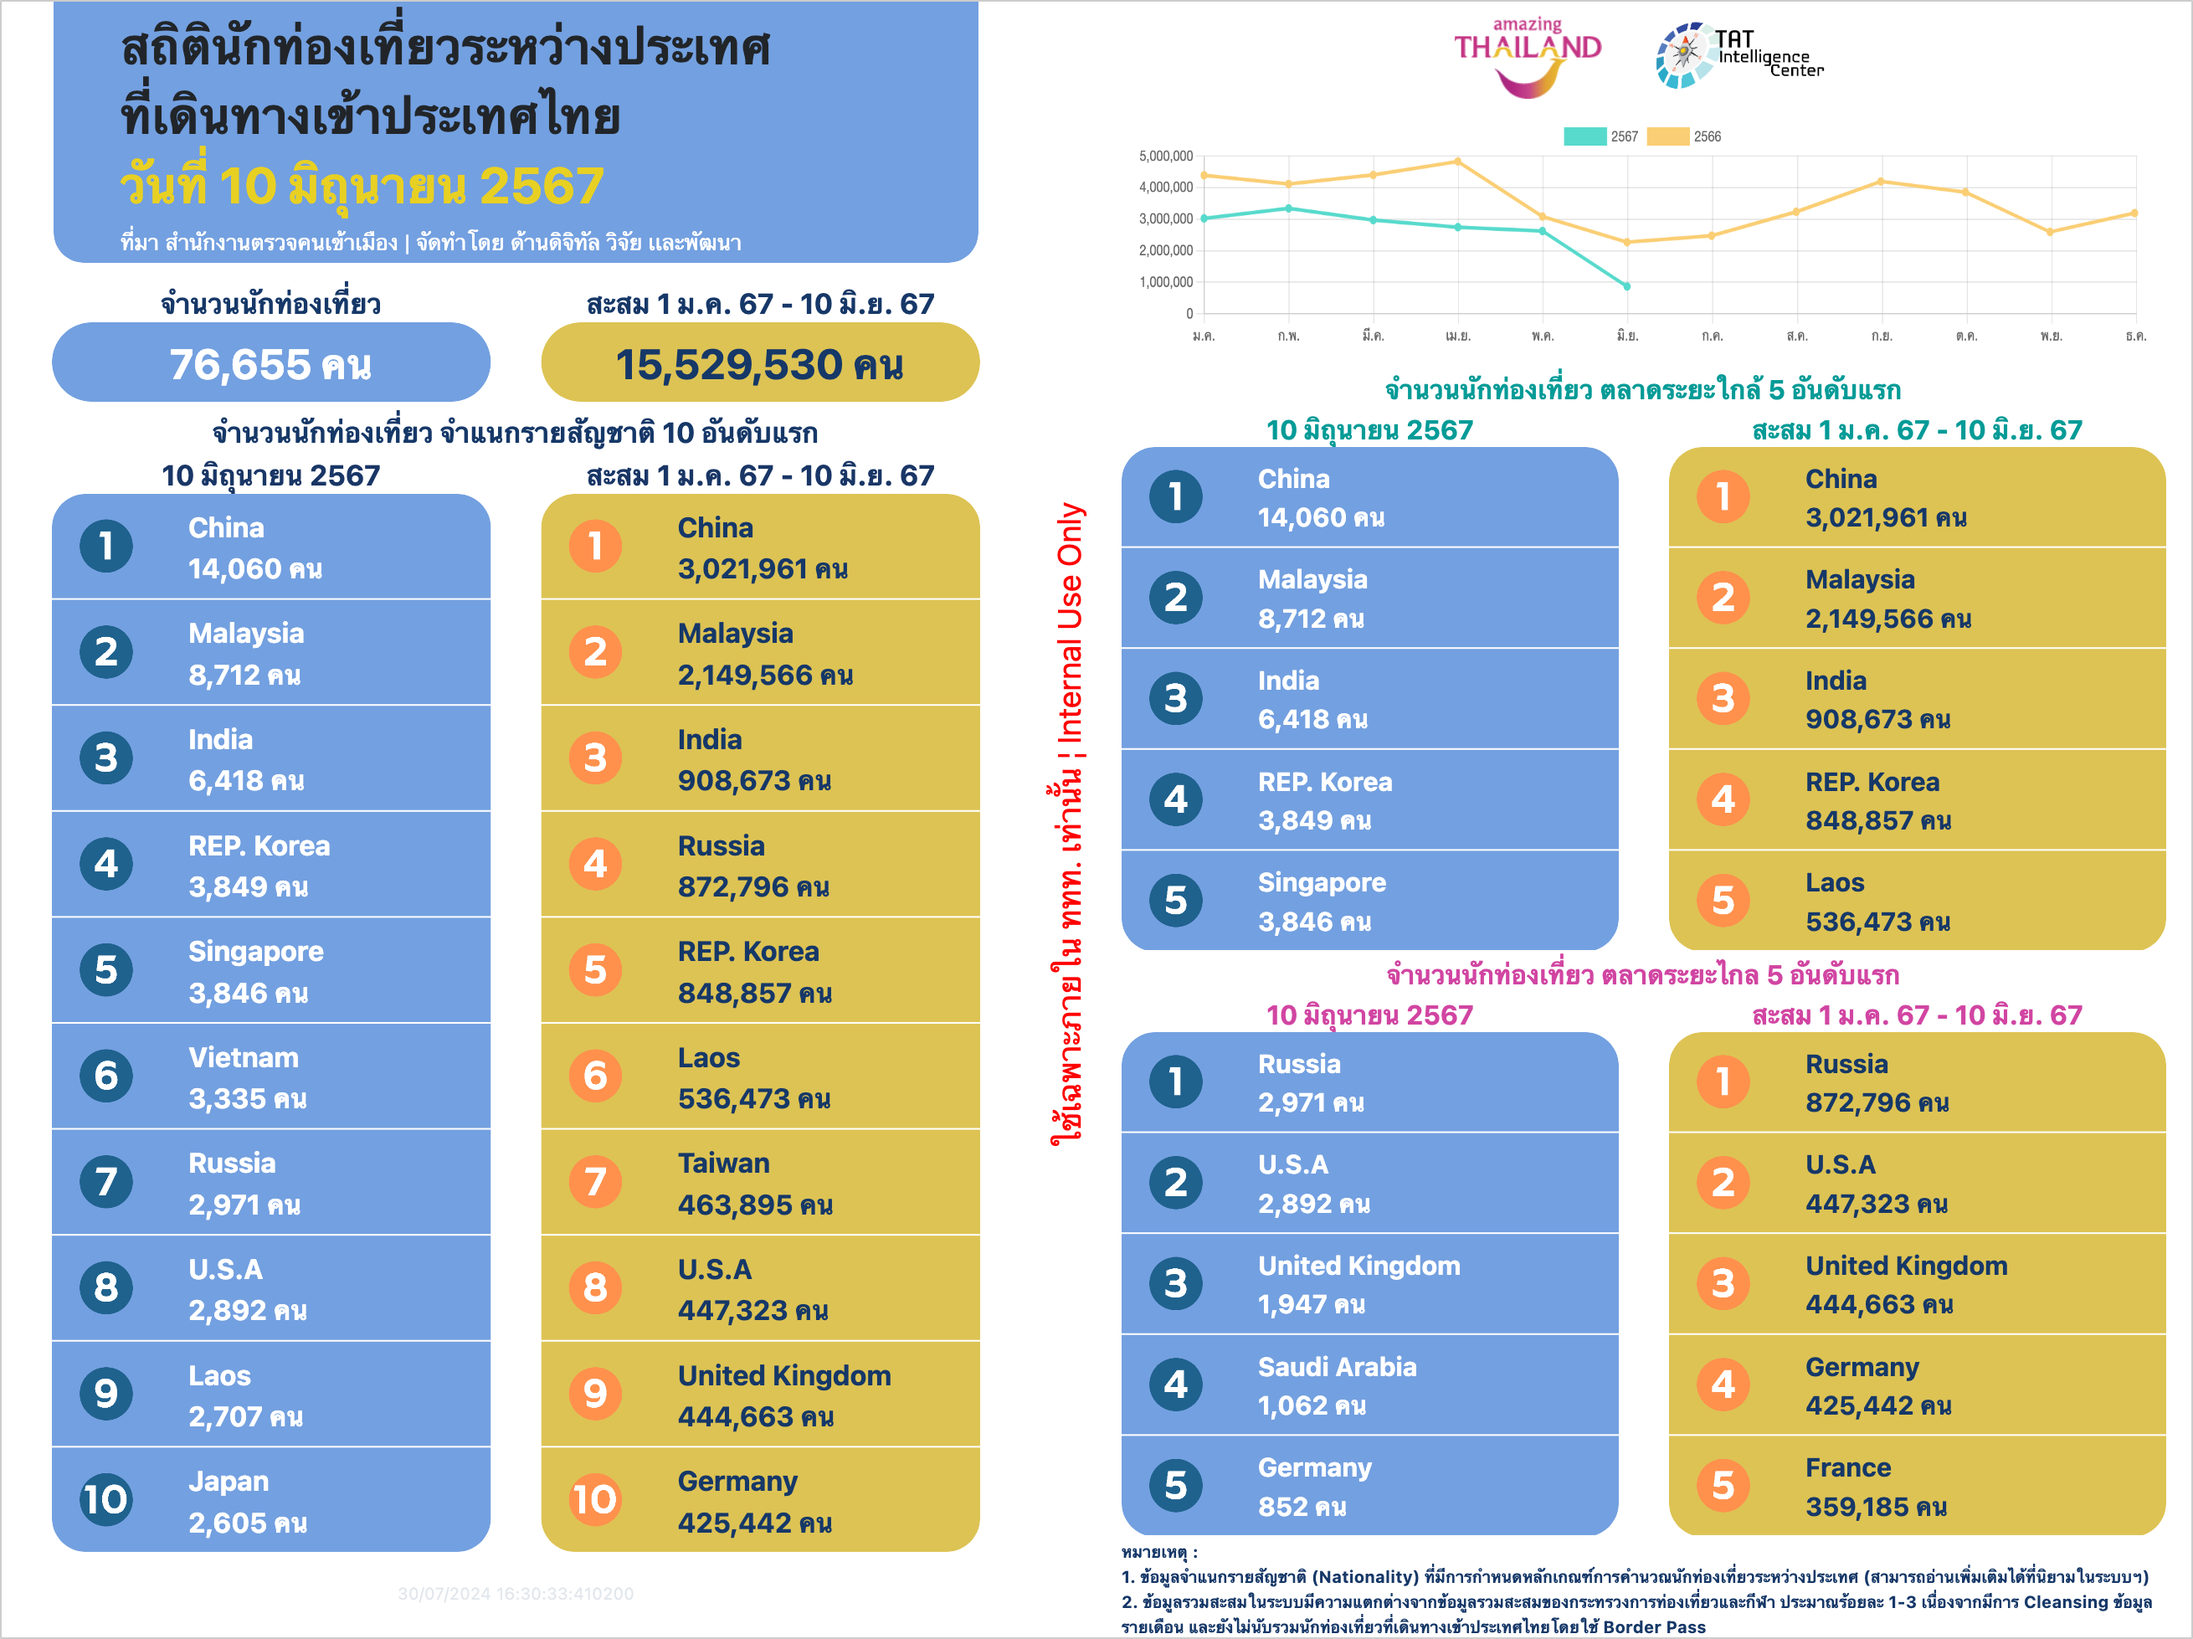
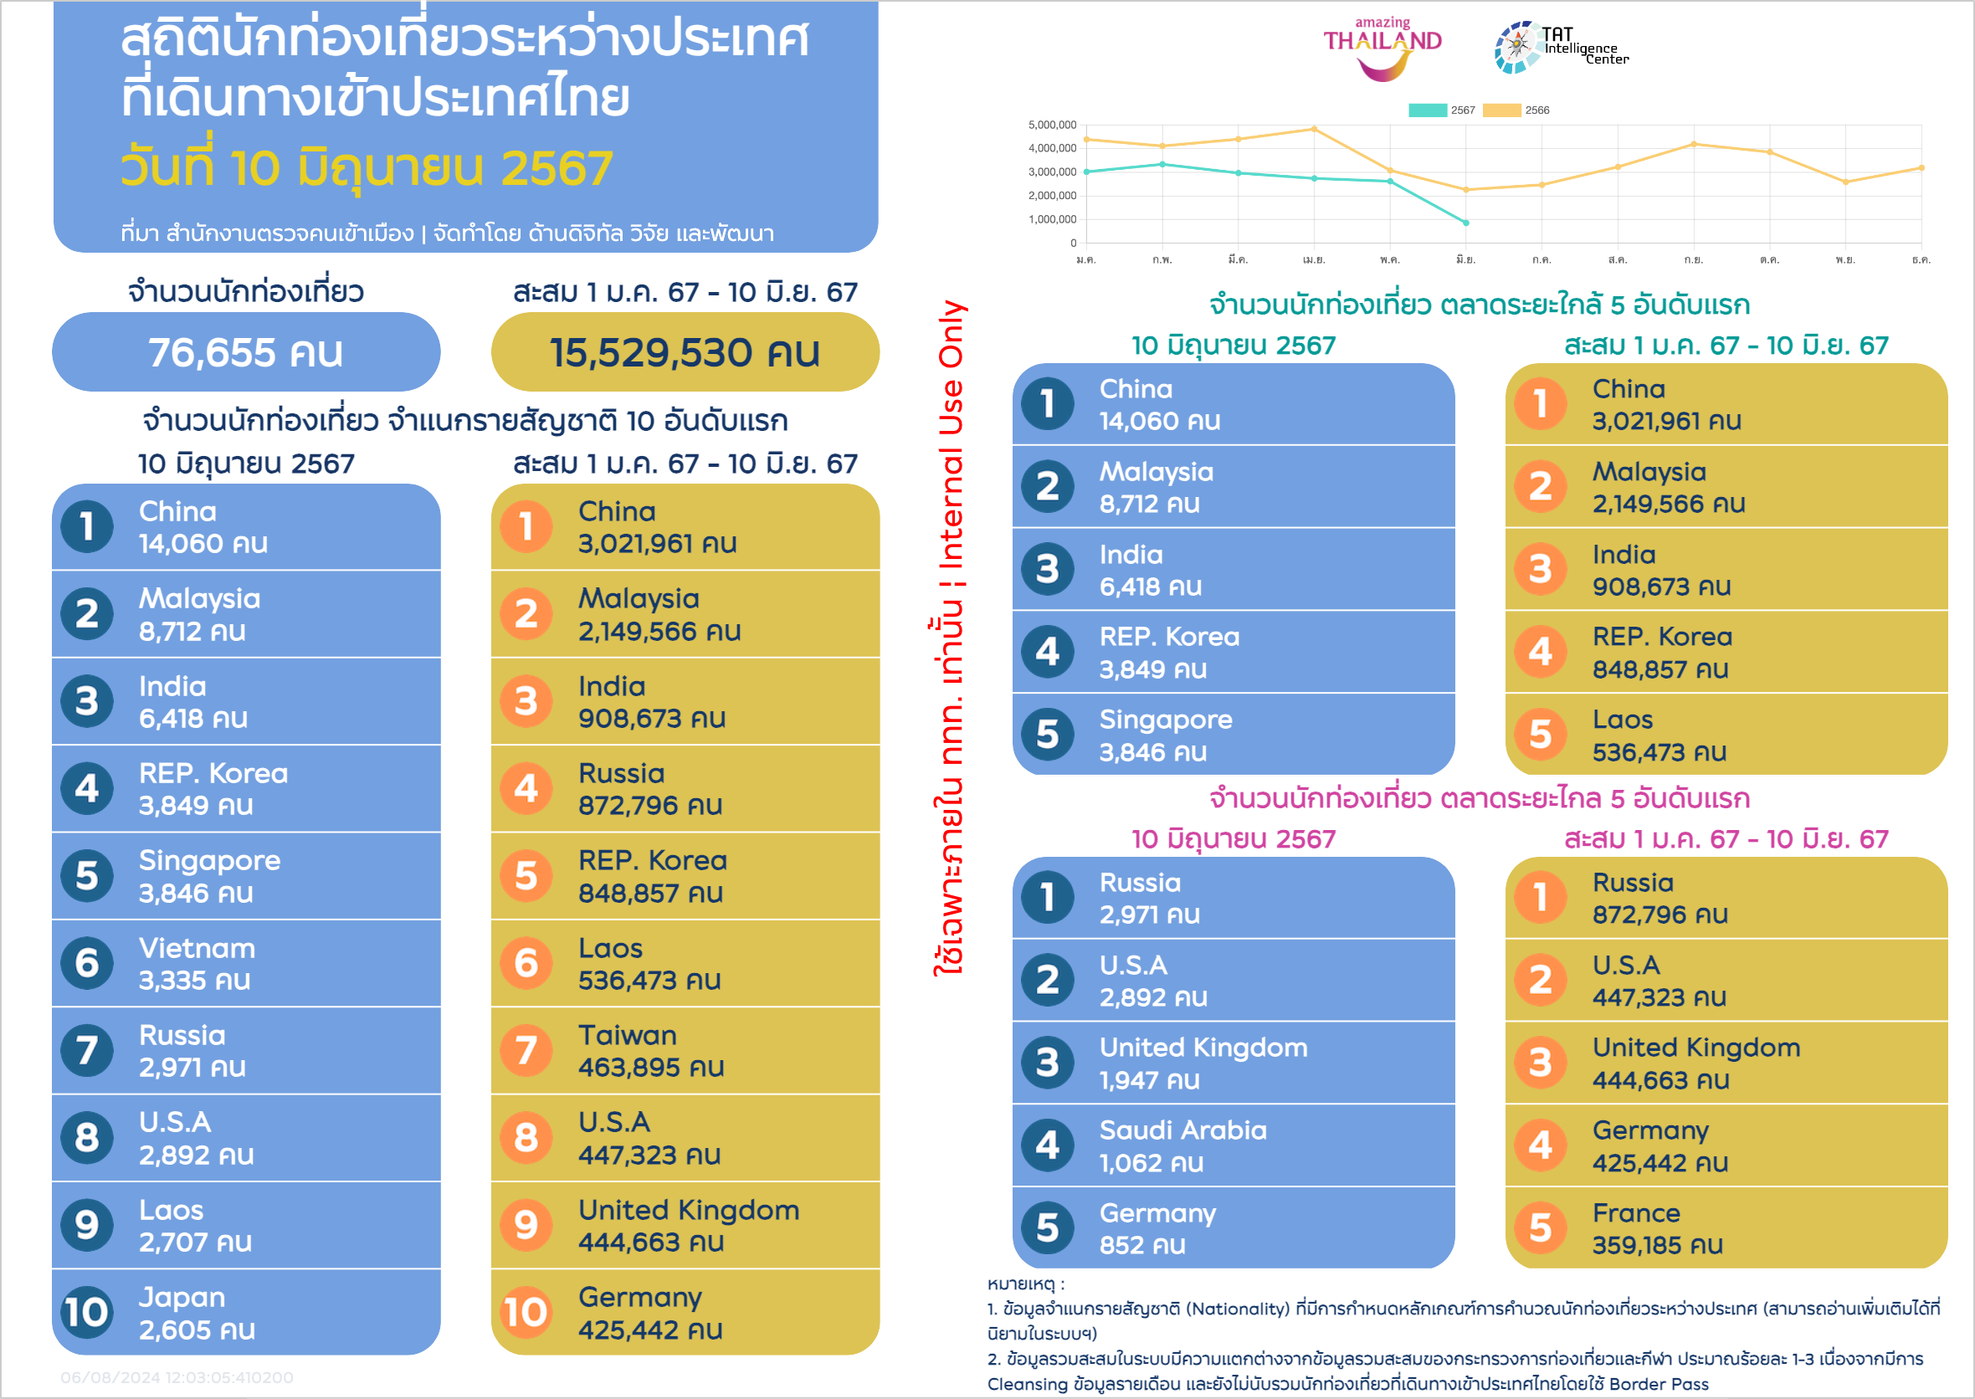
edit dashboard export

diff --git a/modules/Main/Views/export/dashboard_view.php b/modules/Main/Views/export/dashboard_view.php
@@ -237,6 +237,10 @@ body {
 		transform: rotate(90deg);
 	}
 
+	.d-flex {
+		line-height: 1.2em;
+	}
+
 	@media (max-width: 576px) {}
 </style>
 
@@ -284,7 +288,7 @@ if (!empty($SumMarketDate_past['Long'])) {
 // print_r($numberSumNatDay);
 ?>
 
-<body>
+<body style="width:1150px; height: 680px;margin: auto;">
 	<div class="row" style="margin: 0px;">
 		<div class="col-lg-1 col-12 text-center text-md-right">
 			<img class="img-profile " src="<?php echo base_url('public/img/tat.png') ?>" width="100px">
@@ -311,7 +315,7 @@ if (!empty($SumMarketDate_past['Long'])) {
 						<div class="col-lg-11 pr-0">
 							<div class="mx-3 backgroundColorBox1">
 								<div style="padding-left: 40px; padding-right: 40px; padding-top:3px">
-									<p style="margin: 0px; font-weight:bold; line-height: normal; font-size: 30px; color: white;">
+									<p style="margin: 0px; font-weight:bold; line-height: 1.2em; font-size: 30px; color: white;">
 										สถิตินักท่องเที่ยวระหว่างประเทศ
 										<br>
 										ที่เดินทางเข้าประเทศไทย
@@ -387,10 +391,10 @@ if (!empty($SumMarketDate_past['Long'])) {
 												?>
 
 													<div class="d-flex align-items-center" style="border-bottom:<?php echo $c == 10 ? '' : '1px solid #FFFFFF' ?>;">
-														<div class="text-center" style="padding: 6px 16.5px;">
+														<div class="text-center" style="padding: 3px 5px;">
 															<img class="img-profile rounded-circle" src="<?php echo $number_icon ?>" style="height: 32px; ">
 														</div>
-														<div style="text-align: left; padding: 6.4px 16.5px;color: white; font-size: 16.5px;font-weight: bold; width: 90%;">
+														<div style="text-align: left; padding: 6.4px 10px;color: white; font-size: 16.5px;font-weight: bold; width: 90%;">
 															<?php echo $v['COUNTRY_NAME_EN'] ?>
 															<br>
 															<?php echo number_format($v['NUM']); ?> คน
@@ -432,10 +436,10 @@ if (!empty($SumMarketDate_past['Long'])) {
 												?>
 
 													<div class="d-flex align-items-center" style="border-bottom:<?php echo $c == 10 ? '' : '1px solid #FFFFFF' ?>;">
-														<div class="text-center" style="padding: 6px 16.5px;">
+														<div class="text-center" style="padding: 3px 5px;">
 															<img class="img-profile rounded-circle" src="<?php echo $number_icon ?>" style="height: 32px; ">
 														</div>
-														<div style="text-align: left; padding: 6.4px 16.5px;color: #163868; font-size: 16.5px;font-weight: bold; width: 90%;">
+														<div style="text-align: left; padding: 6.4px 10px;color: #163868; font-size: 16.5px;font-weight: bold; width: 90%;">
 															<?php echo $v['COUNTRY_NAME_EN'] ?>
 															<br>
 															<?php echo number_format($v['NUM']); ?> คน
@@ -447,13 +451,13 @@ if (!empty($SumMarketDate_past['Long'])) {
 										</div>
 									</div>
 								</div>
-								<div class="col-lg-12 text-center mt-3">
-									<p class="m-0" style="opacity: 0.3;font-size:10px;color: #a1afc2;"><?php echo date('d/m/Y H:i:s:') . $session->get('org_id');; ?></p>
+								<div class="col-lg-12">
+									<p class="m-0" style="opacity: 0.5;font-size:10px;color: #a1afc2;padding: 5px;"><?php echo date('d/m/Y H:i:s:') . $session->get('org_id');; ?></p>
 								</div>
 							</div>
 						</div>
 						<div class="col-lg-1 my-auto text-center p-0">
-							<div class="mt-1" style="position: absolute;left: -160px;top: 0px;width: max-content;height: 20px;font-size:12px;color:#333;transform: rotate(270deg);color: red;font-size: 19px;">
+							<div class="mt-1" style="position: absolute;left: -180px;top: -50px;width: max-content;height: 20px;font-size:12px;color:#333;transform: rotate(270deg);color: red;font-size: 19px;">
 								ใช้เฉพาะภายใน ททท. เท่านั้น ¦ Internal Use Only
 							</div>
 						</div>
@@ -464,11 +468,11 @@ if (!empty($SumMarketDate_past['Long'])) {
 				<div class="col-lg-6">
 					<div class="row">
 						<div class="col-lg-12 text-center mt-2">
-							<img src="<?php echo base_url('public/img/amezingThai.png') ?>" alt="" style=" margin-right: 10px;height: 50px;">
-							<img src="<?php echo base_url('public/img/TATIC-Logo.png') ?>" alt="" style="height:50px ;margin-left: 10px;">
+							<img src="<?php echo base_url('public/img/amezingThai.png') ?>" alt="" style=" margin-right: 10px;height: 40px;">
+							<img src="<?php echo base_url('public/img/TATIC-Logo.png') ?>" alt="" style="height:40px ;margin-left: 10px;">
 						</div>
 						<div class="col-lg-12">
-							<img src="<?php echo base_url('public/uploads/main/' . $to_date . 'chart_daily_year.png') ?>" style="width:100%;height:160px;">
+							<img src="<?php echo base_url('public/uploads/main/' . $to_date . 'chart_daily_year.png') ?>" style="width:100%;height:120px;">
 						</div>
 						<div class="col-lg-12 text-center colorTextLeft" style="font-weight:bold; font-size: 16px; ">
 							จำนวนนักท่องเที่ยว ตลาดระยะใกล้ 5 อันดับแรก
@@ -504,10 +508,10 @@ if (!empty($SumMarketDate_past['Long'])) {
 												$i++;
 										?>
 												<div class="d-flex align-items-center" style="border-bottom:<?php echo $c == 10 ? '' : '1px solid #FFFFFF' ?>;">
-													<div class="text-center" style="padding: 6px 16.5px;">
+													<div class="text-center" style="padding: 3px 5px;">
 														<img class="img-profile rounded-circle" src="<?php echo $number_icon ?>" style="height: 32px; ">
 													</div>
-													<div style="text-align: left; padding: 6.4px 16.5px;color: white; font-size: 15.5px;font-weight: bold; width: 90%;">
+													<div style="text-align: left; padding: 5px 10px;color: white; font-size: 15.5px;font-weight: bold; width: 90%;">
 														<?php echo $v['COUNTRY_NAME_EN'] ?>
 														<br>
 														<?php echo number_format($v['NUM']); ?> คน
@@ -535,10 +539,10 @@ if (!empty($SumMarketDate_past['Long'])) {
 												}
 										?>
 												<div class="d-flex align-items-center" style="border-bottom:<?php echo $c == 10 ? '' : '1px solid #FFFFFF' ?>;">
-													<div class="text-center" style="padding: 6px 16.5px;">
+													<div class="text-center" style="padding: 3px 5px;">
 														<img class="img-profile rounded-circle" src="<?php echo $number_icon ?>" style="height: 32px; ">
 													</div>
-													<div style="text-align: left; padding: 6.4px 16.5px;color: #163868; font-size: 15.5px;font-weight: bold; width: 90%;">
+													<div style="text-align: left; padding: 5px 10px;color: #163868; font-size: 15.5px;font-weight: bold; width: 90%;">
 														<?php echo $v['COUNTRY_NAME_EN'] ?>
 														<br>
 														<?php echo number_format($v['NUM']); ?> คน
@@ -584,10 +588,10 @@ if (!empty($SumMarketDate_past['Long'])) {
 												$i++;
 										?>
 												<div class="d-flex align-items-center" style="border-bottom:<?php echo $c == 10 ? '' : '1px solid #FFFFFF' ?>;">
-													<div class="text-center" style="padding: 6px 16.5px;">
+													<div class="text-center" style="padding: 3px 5px;">
 														<img class="img-profile rounded-circle" src="<?php echo $number_icon ?>" style="height: 32px; ">
 													</div>
-													<div style="text-align: left; padding: 6.4px 16.5px;color: white; font-size: 15.5px;font-weight: bold; width: 90%;">
+													<div style="text-align: left; padding: 5px 10px;color: white; font-size: 15.5px;font-weight: bold; width: 90%;">
 														<?php echo $v['COUNTRY_NAME_EN'] ?>
 														<br>
 														<?php echo number_format($v['NUM']); ?> คน
@@ -615,10 +619,10 @@ if (!empty($SumMarketDate_past['Long'])) {
 												}
 										?>
 												<div class="d-flex align-items-center" style="border-bottom:<?php echo $c == 10 ? '' : '1px solid #FFFFFF' ?>;">
-													<div class="text-center" style="padding: 6px 16.5px;">
+													<div class="text-center" style="padding: 3px 5px;">
 														<img class="img-profile rounded-circle" src="<?php echo $number_icon ?>" style="height: 32px; ">
 													</div>
-													<div style="text-align: left; padding: 6.4px 16.5px;color: #163868; font-size: 15.5px;font-weight: bold; width: 90%;">
+													<div style="text-align: left; padding: 5px 10px;color: #163868; font-size: 15.5px;font-weight: bold; width: 90%;">
 														<?php echo $v['COUNTRY_NAME_EN'] ?>
 														<br>
 														<?php echo number_format($v['NUM']); ?> คน
@@ -631,10 +635,10 @@ if (!empty($SumMarketDate_past['Long'])) {
 								</div>
 							</div>
 						</div>
-						<div class="col-lg-12 " style="font-weight: bold; color: #fff; font-size:10px; color: #163868;">
+						<div class="col-lg-12 " style="font-weight: bold; color: #fff; font-size:10px; color: #163868; padding: 0;">
 							หมายเหตุ : <br>
-							1. ข้อมูลจำแนกรายสัญชาติ (Nationality) ที่มีการกำหนดหลักเกณฑ์การคำนวณนักท่องเที่ยวระหว่างประเทศ (สามารถอ่านเพิ่มเติมได้ที่นิยามในระบบฯ) <br>
-							2. ข้อมูลรวมสะสมในระบบมีความแตกต่างจากข้อมูลรวมสะสมของกระทรวงการท่องเที่ยวและกีฬา ประมาณร้อยละ 1-3 เนื่องจากมีการ Cleansing ข้อมูลรายเดือน และยังไม่นับรวมนักท่องเที่ยวที่เดินทางเข้าประเทศไทยโดยใช้ Border Pass
+							1. ข้อมูลจำแนกรายสัญชาติ (Nationality) ที่มีการกำหนดหลักเกณฑ์การคำนวณนักท่องเที่ยวระหว่างประเทศ <br>(สามารถอ่านเพิ่มเติมได้ที่นิยามในระบบฯ) <br>
+							2. ข้อมูลรวมสะสมในระบบมีความแตกต่างจากข้อมูลรวมสะสมของกระทรวงการท่องเที่ยวและกีฬา ประมาณร้อยละ 1-3 <br>เนื่องจากมีการ Cleansing ข้อมูลรายเดือน และยังไม่นับรวมนักท่องเที่ยวที่เดินทางเข้าประเทศไทยโดยใช้ Border Pass
 						</div>
 					</div>
 				</div>

diff --git a/modules/Report/Views/departure.php b/modules/Report/Views/departure.php
@@ -36,10 +36,10 @@
 </style>
 
 <div class="row">
-	<div class="col-md-5 text-center text-md-left" style="font-size: 1.4em;">
+	<div class="col-md-3 text-center text-md-left" style="font-size: 1.2em;">
 		สถิติคนไทยเดินทางออกรายวัน
 	</div>
-	<div class="col-md-1 text-center text-md-right" style="font-size: 1.4em;">
+	<div class="col-md-1 text-center text-md-right" style="font-size: 1.2em;">
 		ปี
 	</div>
 	<div class="col-md-2 text-center">
@@ -49,7 +49,17 @@
 			<?php } ?>
 		</select>
 	</div>
-	<div class="col-md-4 col-12 py-2" style="text-align: right;">
+	<div class="col-md-1 text-center text-md-right" style="font-size: 1.2em;">
+		ด่าน
+	</div>
+	<div class="col-md-2 text-center">
+		<select class="form-control" id="select_port_type" onchange="ChangeDate()">
+			<option value="">ทั้งหมด</option>
+			<option value="ด่านบก" <?php if($port_type=='ด่านบก'){ echo 'selected="selected"';} ?> >ด่านบก</option>
+			<option value="ด่านอากาศ" <?php if($port_type=='ด่านอากาศ'){ echo 'selected="selected"';} ?> >ด่านอากาศ</option>
+		</select>
+	</div>
+	<div class="col-md-3 col-12 py-2" style="text-align: right;">
 		<a target="_blank" onclick="export_report('excel')" class="btn btn-success" style="width : 70px">
 			<i class="fa-solid fa-file-excel"></i> Excel
 		</a>
@@ -57,10 +67,6 @@
 			<i class="fa-solid fa-file-pdf"></i> PDF
 		</a>
 	</div>
-	<div class="col-md-12 text-center py-2" >
-		
-	</div>
-
 </div>
 
 <div class="row">
@@ -165,12 +171,13 @@ function isWeekend($date) {
 	
 	function ChangeDate() {
 		var year = $('#select_year').val();
-		window.location.href = base_url + '/report/departure?year=' + year ;
+		var port_type = $('#select_port_type').val();
+		window.location.href = base_url + '/report/departure?year=' + year+'&port_type='+port_type ;
 	}
 
 	function export_report(type) {
 		var year = $('#select_year').val();
-		window.open(base_url + '/report/departure/?export_type=' + type + '&year=' + year );
+		window.open(base_url + '/report/departure/?export_type=' + type + '&year=' + year+'&port_type='+port_type );
 	}
 </script>
 <?= $this->endSection() ?>

diff --git a/modules/Report/Models/Report_model.php b/modules/Report/Models/Report_model.php
@@ -349,7 +349,7 @@ class Report_model extends Model
 	    return $data;
 	}
 
-	function getDepartureDaily($year){
+	function getDepartureDaily($year,$port_type=''){
 		$data = array();
 		$builder = $this->db->table($this->table_out);
 		$builder->select(" TO_CHAR({$this->table_out}.REPORT_DATE,'DD-MM-YYYY') AS REPORT_DATE,
@@ -360,6 +360,9 @@ class Report_model extends Model
 		$builder->where('DIRECTION','ขาออก');
 		$builder->where('VISA_ID',16);
 		$builder->where('COUNTRY_ID',147);
+		if($port_type){
+			$builder->where('MD_PORT.PORT_TYPE',$port_type);
+		}
 		$builder->groupBy("TO_CHAR({$this->table_out}.REPORT_DATE,'DD-MM-YYYY') ");
 		$builder->orderBy("REPORT_DATE");
 		$res = $builder->get()->getResultArray();

diff --git a/modules/Report/Controllers/Report.php b/modules/Report/Controllers/Report.php
@@ -476,13 +476,14 @@ class Report extends BaseController
 		$data['Mydate'] = $this->Mydate;
 		$data['month_label'] = $this->month_en_short;
 		$data['year'] = date('Y');
+		$data['port_type'] = @$_GET['port_type'];
 		if (!empty($_GET['year'])) {
 			$data['year'] = $_GET['year'];
 		}
 
 		$data['select_year'] = $Model->getSelectYear();
 
-		$data['data'] = $Model->getDepartureDaily($data['year']);
+		$data['data'] = $Model->getDepartureDaily($data['year'],$data['port_type']);
 		$data['export_type'] = @$_GET['export_type'];
 		if (@$_GET['export_type'] == 'excel') {
 			$this->export_excel('departure.xlsx', 'Modules\Report\Views\export\departure', $data);
